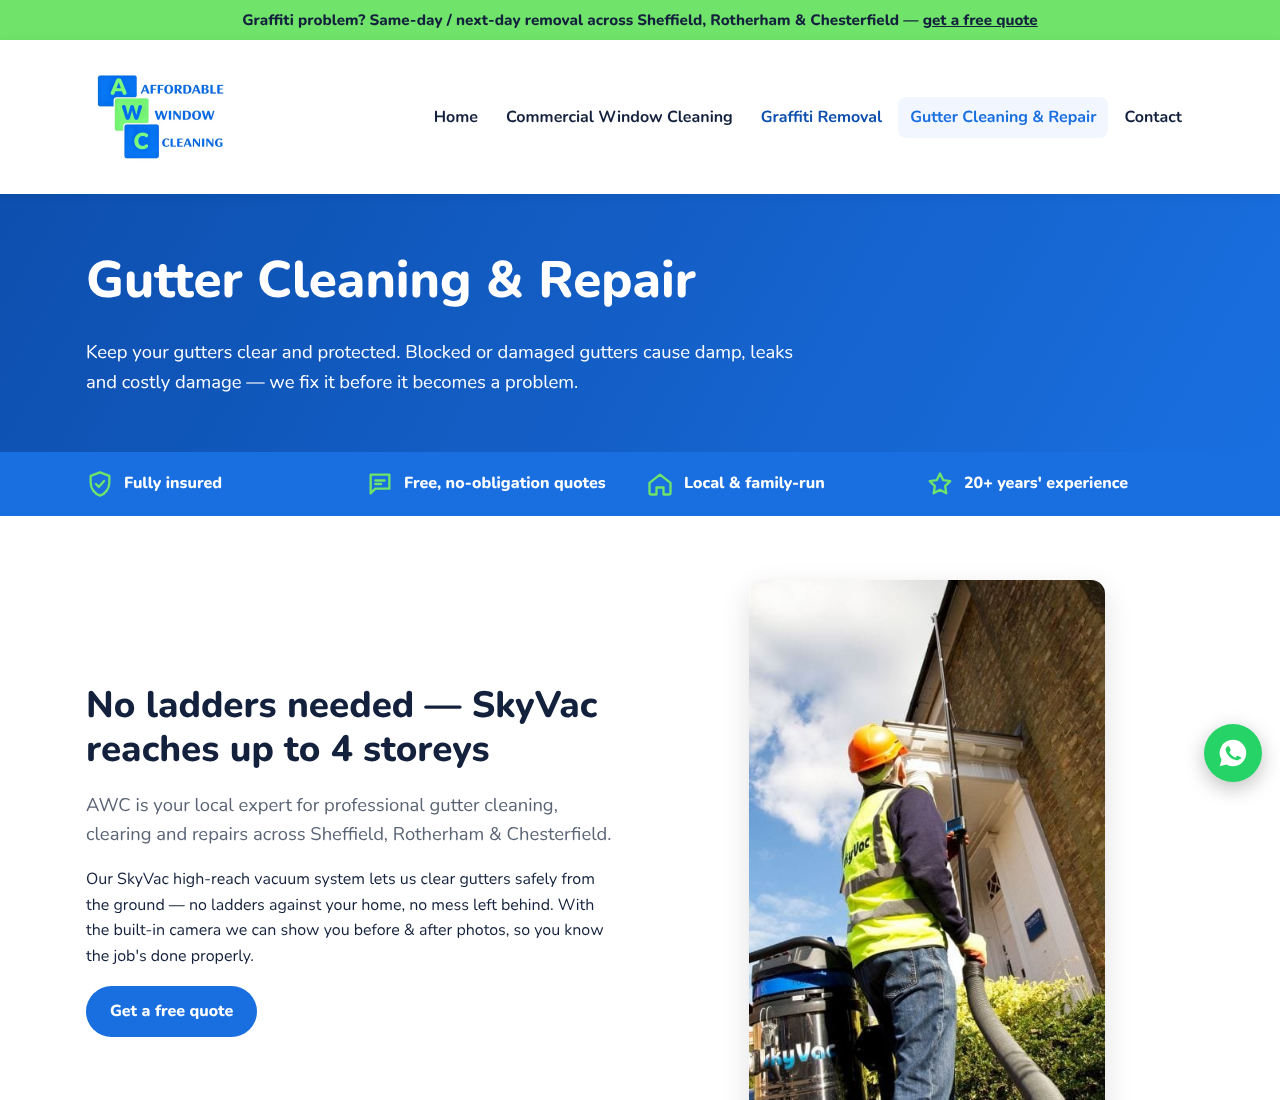
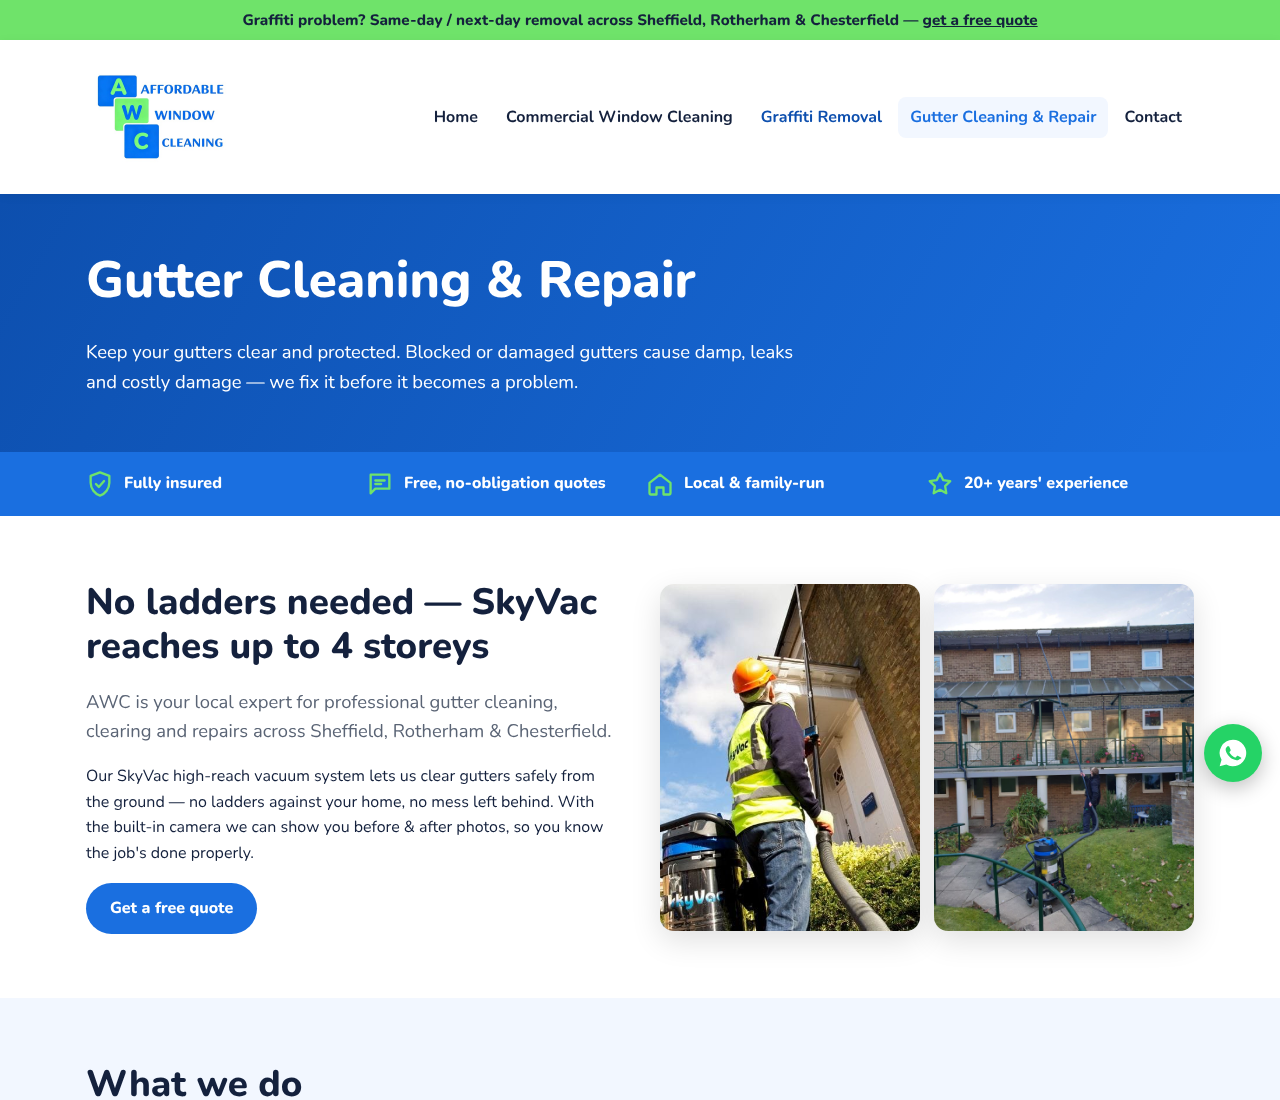
Show both SkyVac photos on gutter page
Claude-Session: https://claude.ai/code/session_01Y8jezWguUytvtpaZQP1NG5

Changed region(s): [[0.5, 0.5255, 0.9375, 1.0], [0.0625, 0.5255, 0.4688, 1.0]]

diff --git a/gutter-cleaning.html b/gutter-cleaning.html
@@ -31,7 +31,7 @@
 <p class="lead">AWC is your local expert for professional gutter cleaning, clearing and repairs across Sheffield, Rotherham &amp; Chesterfield.</p>
 <p>Our SkyVac high-reach vacuum system lets us clear gutters safely from the ground — no ladders against your home, no mess left behind. With the built-in camera we can show you before &amp; after photos, so you know the job's done properly.</p>
 <a class="btn btn-blue" href="contact.html">Get a free quote</a></div>
-<img src="images/skyvac-operator.jpg" alt="Operator using a SkyVac high-reach vacuum to clear gutters from the ground" loading="lazy" style="max-height:560px;width:auto;margin:0 auto">
+<div class="grid g2" style="gap:14px;align-items:center"><img src="images/skyvac-operator.jpg" alt="Operator using a SkyVac high-reach vacuum to clear gutters from the ground" loading="lazy" style="aspect-ratio:3/4;object-fit:cover;width:100%"><img src="images/gutter-vac.jpg" alt="AWC using SkyVac to clean gutters on a block of flats" loading="lazy" style="aspect-ratio:3/4;object-fit:cover;width:100%"></div>
 </div></section>
 <section class="soft"><div class="wrap"><h2>What we do</h2>
 <div class="grid g3">

diff --git a/build.py b/build.py
@@ -217,7 +217,7 @@ f'''<div class="page-head"><div class="wrap"><h1>Gutter Cleaning &amp; Repair</h
 <p class="lead">AWC is your local expert for professional gutter cleaning, clearing and repairs across Sheffield, Rotherham &amp; Chesterfield.</p>
 <p>Our SkyVac high-reach vacuum system lets us clear gutters safely from the ground — no ladders against your home, no mess left behind. With the built-in camera we can show you before &amp; after photos, so you know the job's done properly.</p>
 <a class="btn btn-blue" href="contact.html">Get a free quote</a></div>
-<img src="images/skyvac-operator.jpg" alt="Operator using a SkyVac high-reach vacuum to clear gutters from the ground" loading="lazy" style="max-height:560px;width:auto;margin:0 auto">
+<div class="grid g2" style="gap:14px;align-items:center"><img src="images/skyvac-operator.jpg" alt="Operator using a SkyVac high-reach vacuum to clear gutters from the ground" loading="lazy" style="aspect-ratio:3/4;object-fit:cover;width:100%"><img src="images/gutter-vac.jpg" alt="AWC using SkyVac to clean gutters on a block of flats" loading="lazy" style="aspect-ratio:3/4;object-fit:cover;width:100%"></div>
 </div></section>
 <section class="soft"><div class="wrap"><h2>What we do</h2>
 <div class="grid g3">
